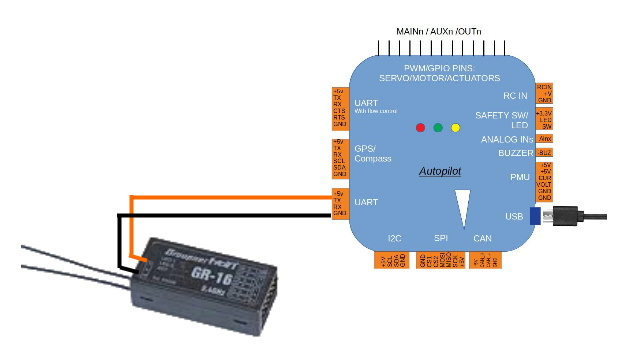
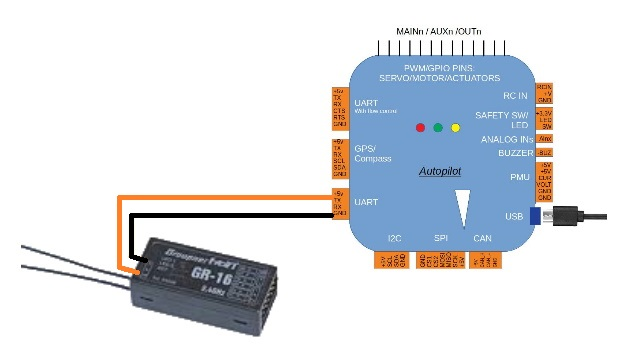
Common: update hott telem connection image and params

diff --git a/common/source/docs/common-hott-telemetry.rst b/common/source/docs/common-hott-telemetry.rst
@@ -18,7 +18,8 @@ Connection to the autopilot is via any UART port's TX input, although one withou
 
 To enable HOTT telemetry, for example on the first TELEM port SERIAL1:
 
-- :ref:`SERIAL1_BAUD<SERIAL1_BAUD>`  set to 19 (for 19.2KBaud)
-- :ref:`SERIAL1_PROTOCOL<SERIAL1_PROTOCOL>`  set to 27 (HOTT)
-- :ref:`SERIAL1_OPTIONS<SERIAL1_OPTIONS>`   set to 4 (Half Duplex)
+- :ref:`SERIAL1_BAUD <SERIAL1_BAUD>`  set to 19 (for 19.2KBaud)
+- :ref:`SERIAL1_PROTOCOL <SERIAL1_PROTOCOL>` set to 27 (HOTT)
+- :ref:`SERIAL1_OPTIONS <SERIAL1_OPTIONS>` set to 4 (Half Duplex)
+- :ref:`BRD_SER1_RTSCTS <BRD_SER1_RTSCTS>` set to 0 to disable flow control (optional)
 
